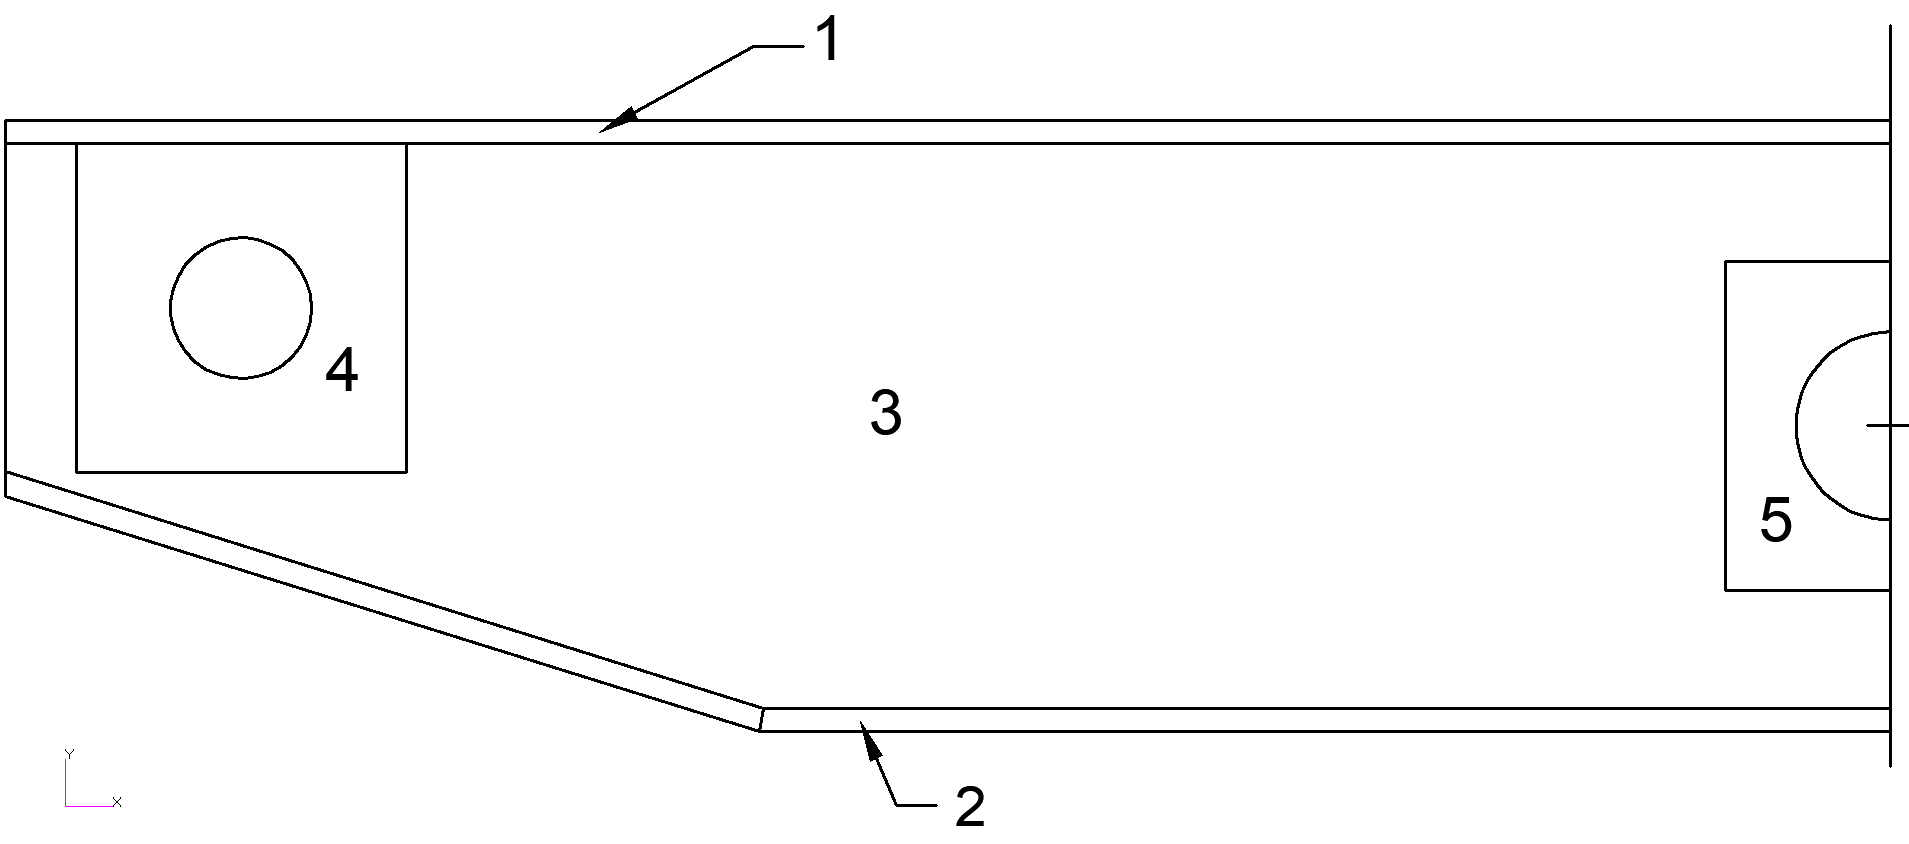
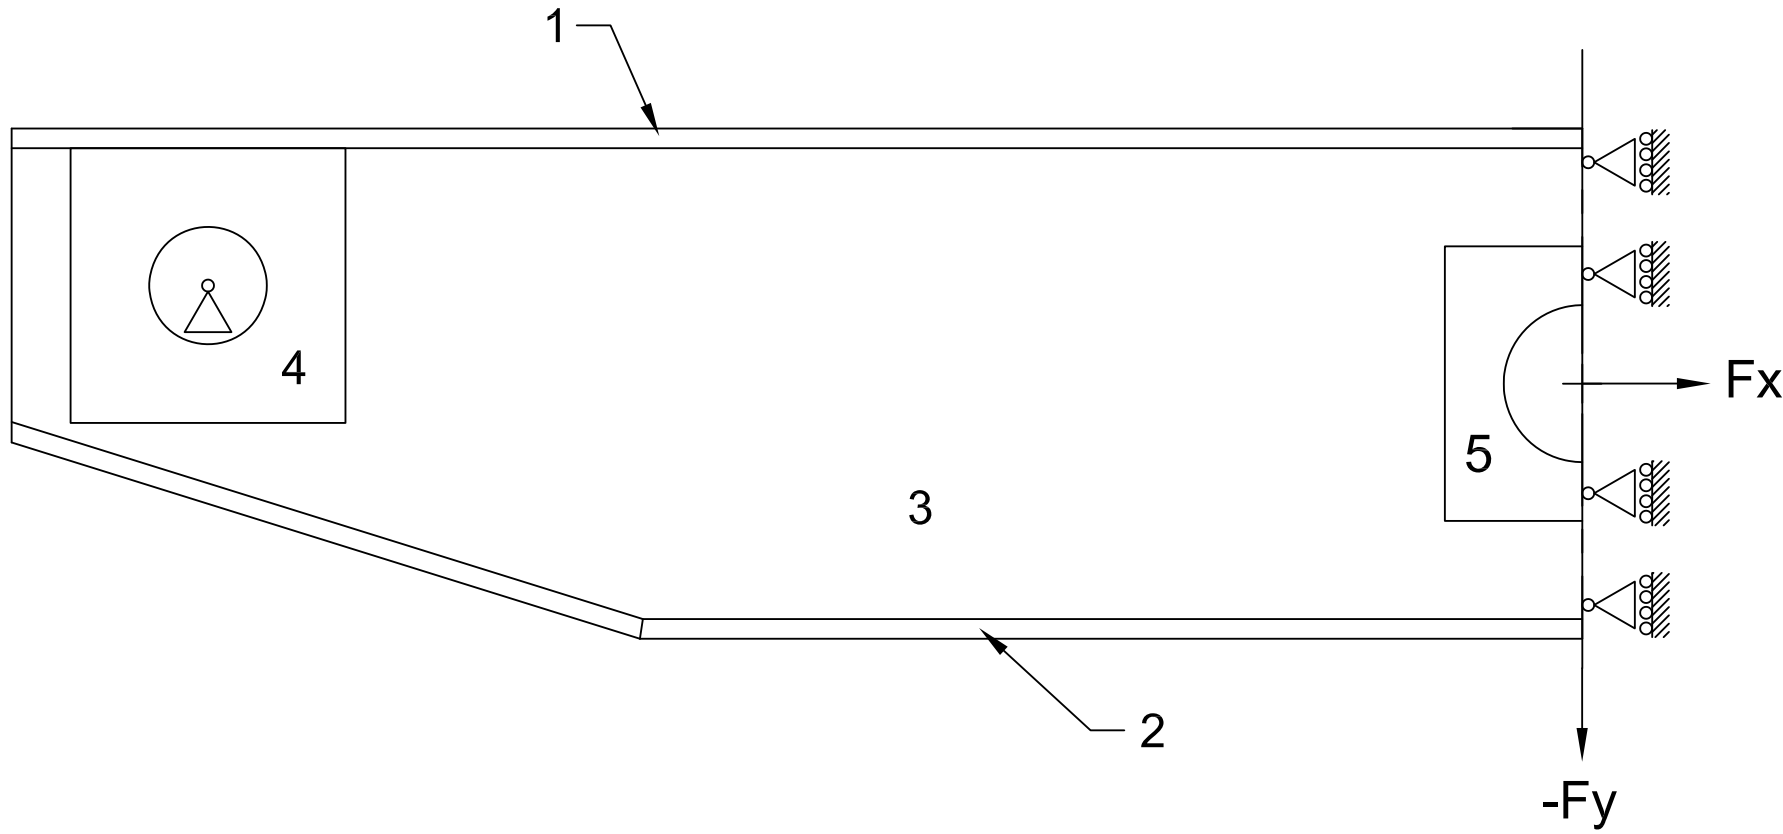
More paper work.

diff --git a/tex/tensor_calc.tex b/tex/tensor_calc.tex
@@ -23,7 +23,7 @@ If $g(x_1, x_2, ... x_n) = Y$ denotes a function of multiple random variates and
 	   \sigma^2(Y) = \sum_{i=1}^{n}\left( \frac{\partial g}{\partial x_i} \sigma_{xi}  \right)^2 + 
 			 \frac{1}{4} \sum_{i=1}^{n}\left( \frac{\partial^2 g}{\partial x_i^2} \sigma_{xi}^2  \right)^2 \label{eq:sigma}
    \end{align}
-The tensor definition of the von Mises stress at a given location can be written as:
+In our case, the term $Y$ will be the Von Mises Stress of our beam system. The tensor definition of the von Mises stress at a given location can be written as:
    \begin{equation}
       \sigma = \sqrt{\frac{3}{2} \cdot \left(\sigma_{dev}:\sigma_{dev} \right)}
 	\label{eq:basedef}
@@ -136,5 +136,5 @@ Now, we can take this definition of $\alpha$ and easily find the derivatives we 
 		\mathrm{tr}\left[2 \cdot \sigma_{devy} \cdot \sigma_{devy} \right]\label{eq:sd_ay}
    \end{align}
 
-   With equations \ref{eq:fd_ax} through \ref{eq:sd_ay} coupled with equations \ref{eq:fd_vmx} through \ref{eq:sd_vmy}, we have all of the terms needed to construct and solve equations \ref{eq:mu} and \ref{eq:sigma} for $\sigma$. It is then easy to substitute the results of equations \ref{eq:mu} and \ref{eq:sigma} into \ref{eq:beta} and determine $\beta$.  In the code presented with this report, all of these terms are assembled separately and combined. Therefore, the final equation with all substitutions performed will not be shown here.
+   With equations \ref{eq:fd_ax} through \ref{eq:sd_ay} coupled with equations \ref{eq:fd_vmx} through \ref{eq:sd_vmy}, we have all of the terms needed to construct and solve equations \ref{eq:mu} and \ref{eq:sigma}, substituting the equation for $\sigma$ into $Y$ for both equations. It is then easy to substitute the results of equations \ref{eq:mu} and \ref{eq:sigma} into \ref{eq:beta} and determine $\beta$.  In the code presented with this report, all of these terms are assembled separately and combined. Therefore, the final equation with all substitutions performed will not be shown here.
 

diff --git a/tex/intro.tex b/tex/intro.tex
@@ -2,10 +2,17 @@
 In industry, cranes are commonly used to lift heavy materials and transport them from location to location. In some cases, equipment or material may exceed the lifting capacity of a single crane or lifting fixture. In these cases, multiple cranes must be used to move the load. In order to ensure multi-crane lifts are performed safely, it must be ensured that each crane shares the load equally. Structural components known as equalizer beams are commonly employed to ensure that these loads are evenly distributed between the cranes. 
 
 
-\begin{figure}
+\begin{figure}[btp]
+\begin{minipage}{0.5\textwidth}
 \includegraphics[width=\textwidth]{img/basic_eq_beam.png}
 \label{img:basic_beam}
 \caption{A Basic Equalizer Beam}
+\end{minipage}
+\begin{minipage}{0.5\textwidth}
+\includegraphics[width=\textwidth]{img/model_3d.png}
+\label{img:basic_3d}
+\caption{3D Representation of an Equalizer Beam}
+\end{minipage}
 \end{figure}
 
 Equalizer beams are typically single weldments with few, if any, moving parts. They are typically constructed from steel. The beam is typically built with 3 major attachment points. One for the load to be lifted, and 2 equidistant crane attachment points. The centers of the three attachment points are typically along the same axis to ensure equal load sharing between the two cranes, even in the event that the beam is out of level. A typical design for an equalizer beam is shown in Figure \ref{img:basic_beam}. 

diff --git a/tex/optim.tex b/tex/optim.tex
@@ -72,8 +72,8 @@ Pareto Dominance is a simple way to compare systems based on multiple different 
 
 Let the vector of fitness values for two arbitrary solutions be defined as:
 \begin{align*}
-	C_a &= \{ f_1, f_2, ... f_n \}\\
-	C_b &= \{ F_1, F_2, ... F_n\}
+	\vec{C}_a &= \{ f_1, f_2, ... f_n \}\\
+	\vec{C}_b &= \{ F_1, F_2, ... F_n\}
 \end{align*}
 
 Where:
@@ -89,12 +89,12 @@ Then, an operator $P_{a,b}$ can be defined which returns true if $C_a$ dominates
 
 \begin{equation}
 P_{a,b} = \begin{cases}
-          \hbox{True  when  } C_{a}^i < C_{b}^i \; \forall i \in \{1..n\}\\ 
+          \hbox{True  when  } C_{a}^i \le C_{b}^i \; \forall i \in \{1..n\}\\ 
           \hbox{False otherwise}
           \end{cases}
 \end{equation}
 
-Note that the operator $P_{a,b}$ does not necessarily imply the value of $P_{b,a}$. While only $C_b$ or $C_a$ can be dominant, it is possible that neither is dominant. In this case, both $P_{a,b}$ and $P_{b,a}$ would be false\cite{diff-evol}. 
+Note that the operator $P_{a,b}$ does not necessarily imply the value of $P_{b,a}$. While only $\vec{C}_b$ or $\vec{C}_a$ can be dominant, it is possible that neither is dominant. In this case, both $P_{a,b}$ and $P_{b,a}$ would be false\cite{diff-evol}. 
 
 \subsubsection{Implementing Pareto Dominance in DE}
 

diff --git a/tex/methods.tex b/tex/methods.tex
@@ -31,7 +31,7 @@ The stochastic loads approach is functionally similar to the Aggregated Latin Hy
 
 \begin{enumerate}
 \item Only a single load case is considered. 
-\item Stress is not directly considered a fitness variable. 
+\item Stress is not directly considered a fitness variable. Instead, the Reliability Index is considered. While the Reliability Index is proportional to stress, it is not a direct measurement. See Section \ref{sec:beta} for details. 
 \end{enumerate}
 The overall process is detailed below. 
 

diff --git a/tex/fem.tex b/tex/fem.tex
@@ -27,7 +27,7 @@ The model developed for the example problem considered in this work is shown in 
 
 \begin{figure}
 \includegraphics[width=\textwidth]{img/numbered_geom.png}
-\caption{Diagram of modeled beam showing region numbers}
+\caption[Diagram of Modeled Beam]{Diagram of Modeled Beam Showing Region Numbers, Force Locations and Constraints.}
 \label{img:num_geom}
 \end{figure}
 

diff --git a/project_paper.tex b/project_paper.tex
@@ -59,6 +59,7 @@
 \input{tex/results_long.tex}
 \input{tex/results_short.tex}
 \chapter{Concluding Remarks}
+\input{tex/conclusion.tex}
 \printbibliography[title={References},heading=bibnumbered]
 \chapter{Appendix A: Complete Code Listing}
 \end{document}

diff --git a/tex/conclusion.tex b/tex/conclusion.tex
@@ -1,0 +1,1 @@
+This section is the conclusion
